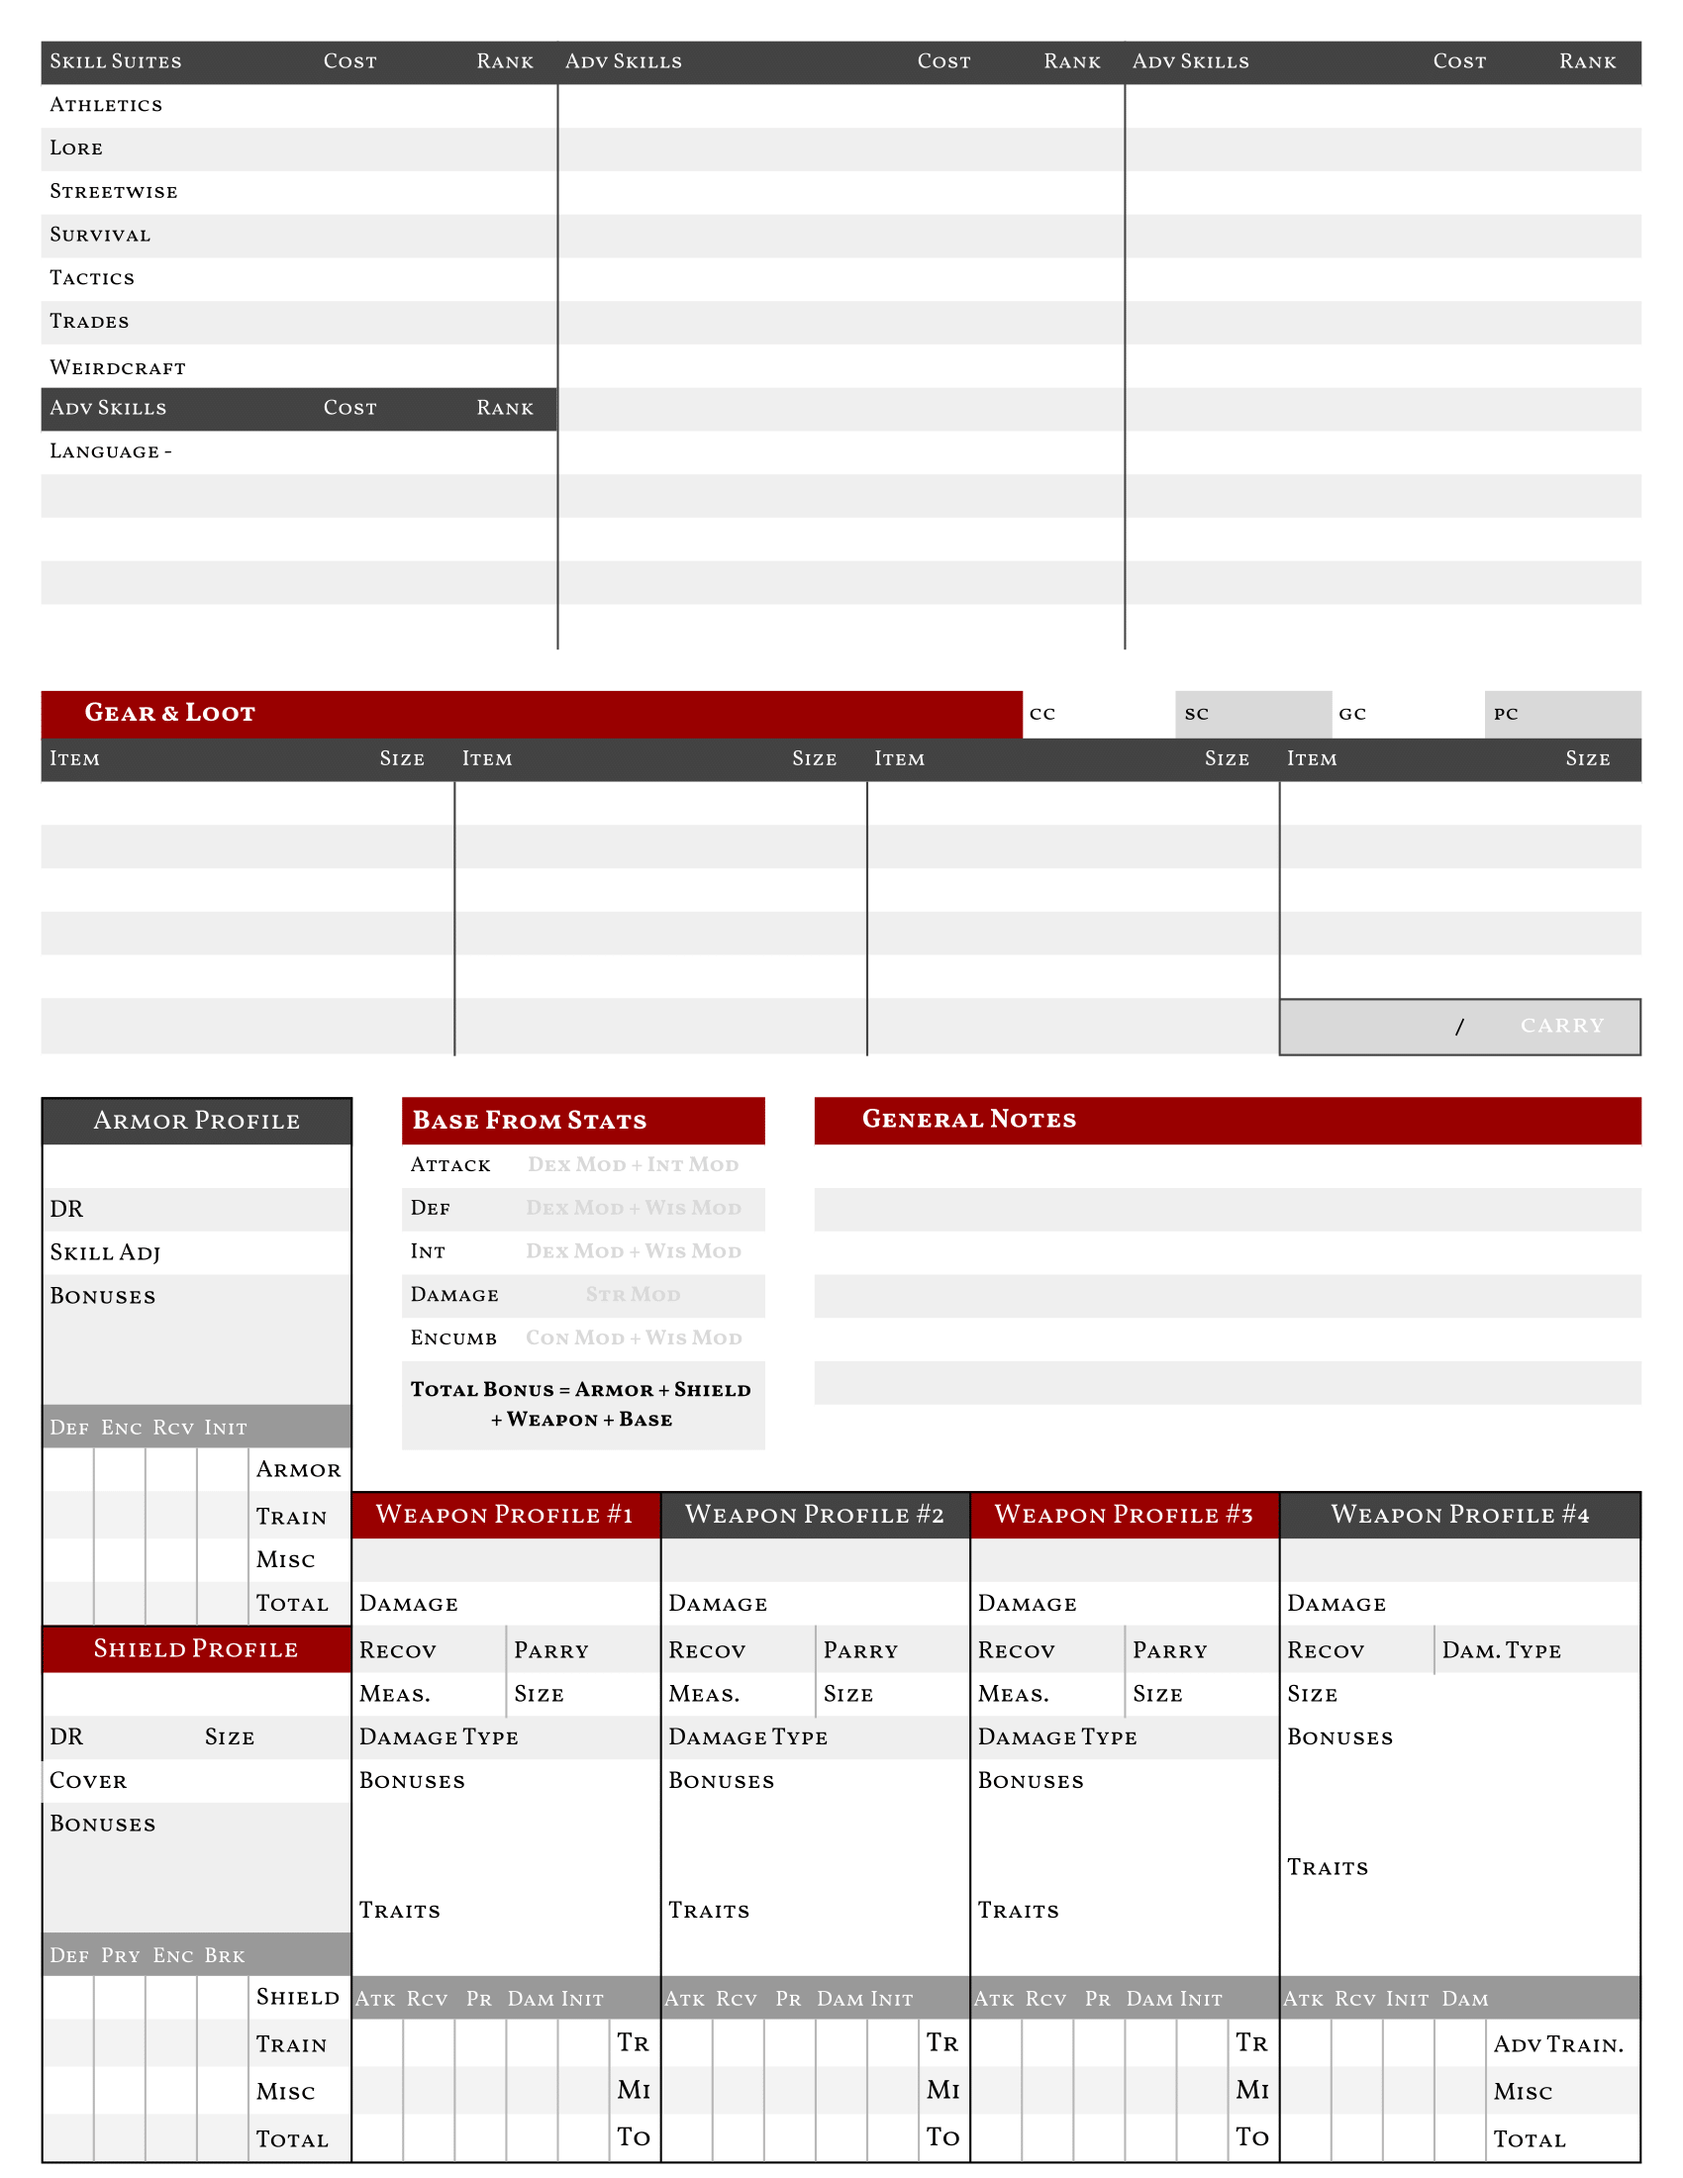
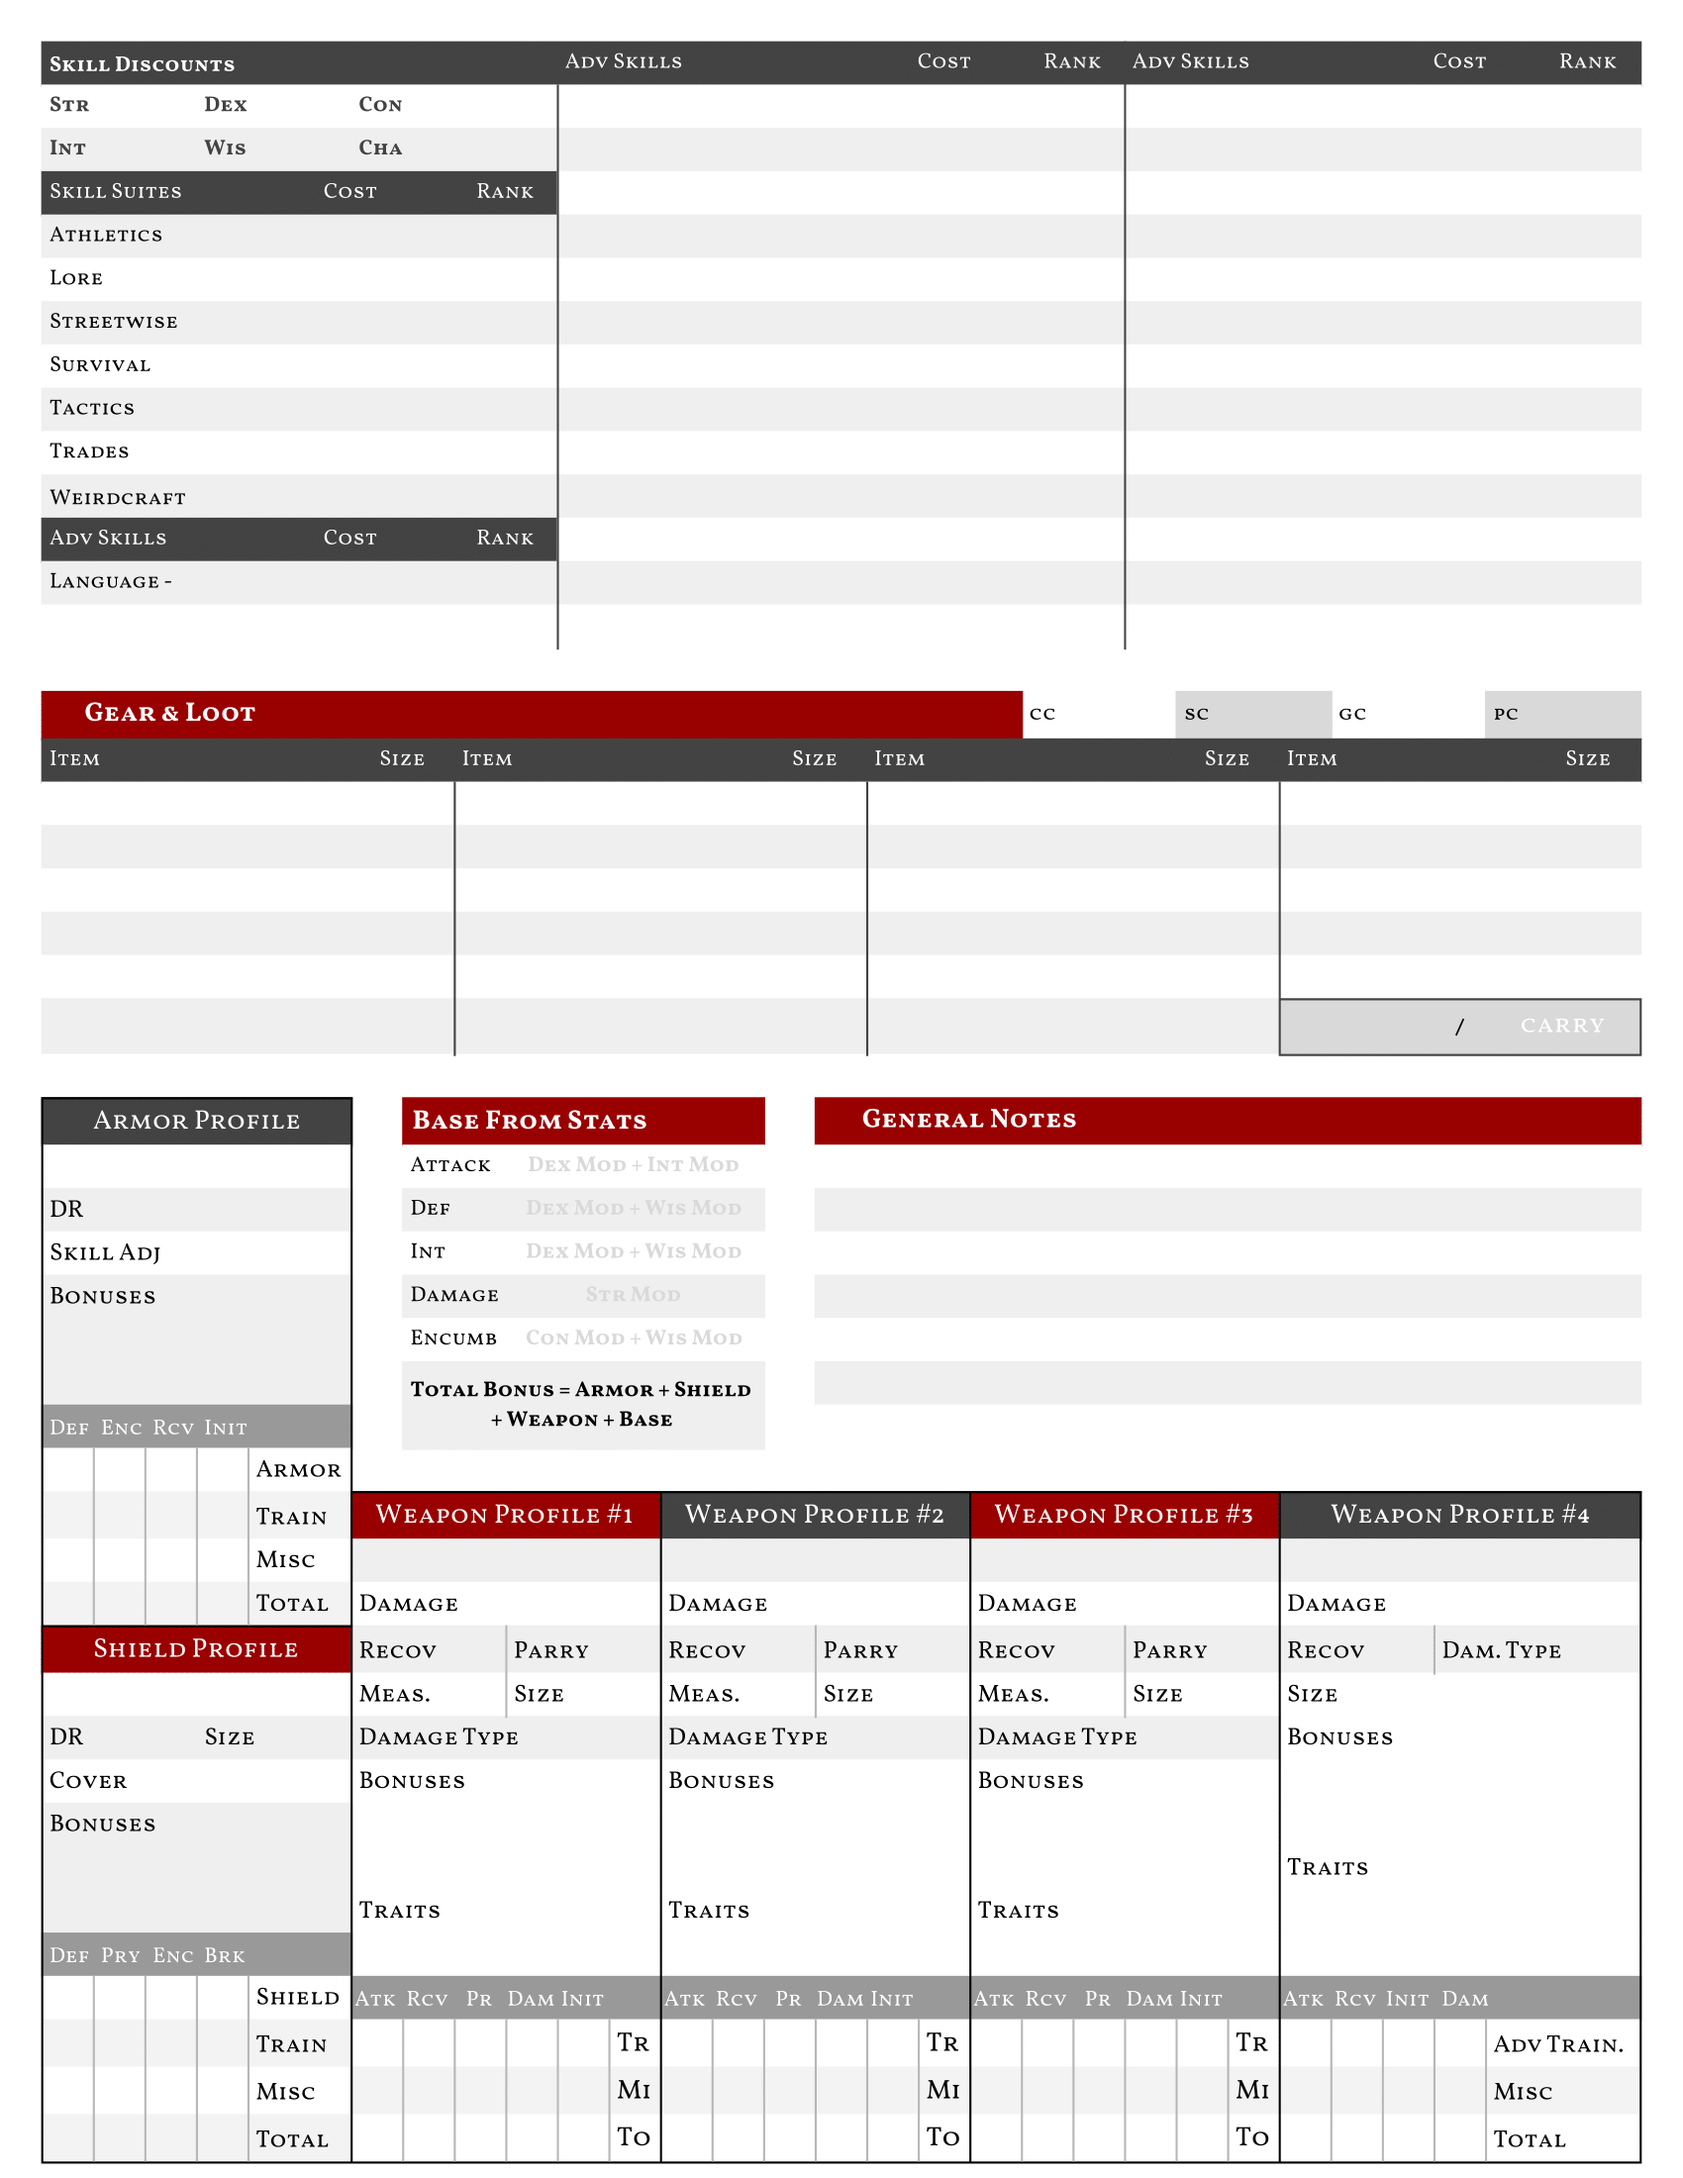
updating character sheet

Changed region(s): [[0.0, 0.0309, 0.3429, 0.2782]]

diff --git a/src/components/character/views/editor.js b/src/components/character/views/editor.js
@@ -139,7 +139,7 @@ render() {
                             <input id="nativerank" type="number" placeholder={Math.ceil(int / 2)} defaultValue={nativelanguage.rank} onChange={event => this.updateNativeLanguage(event.target.value, 'rank')} />
                         </div>
                     </div>
-                    <EditSkillList stylings={{ top: '230px', left: '20px', width: '251px' }} listArray={skillone} limit={4} updateFunction={this.updateAttribute} type={"skillone"} />
+                    <EditSkillList stylings={{ top: '294px', left: '20px', width: '251px' }} listArray={skillone} limit={1} updateFunction={this.updateAttribute} type={"skillone"} />
                     <EditSkillList stylings={{ top: '42px', left: '272px', width: '273px' }} listArray={skilltwo} limit={13} updateFunction={this.updateAttribute} type={"skilltwo"} />
                     <EditSkillList stylings={{ top: '42px', left: '547px', width: '250px' }} listArray={skillthree} limit={13} updateFunction={this.updateAttribute} type={"skillthree"} />
 

diff --git a/src/components/character/views/viewer.js b/src/components/character/views/viewer.js
@@ -311,7 +311,7 @@ export default class CharacterViewer extends Component {
                                 <p id="nativerank">{nativelanguage.rank ? nativelanguage.rank : Math.ceil(int / 2)}</p>
                             </div>
                         </div>
-                        <ViewSkillList stylings={{ top: '230px', left: '20px', width: '251px' }} listArray={skillone} />
+                        <ViewSkillList stylings={{ top: '294px', left: '20px', width: '251px' }} listArray={skillone} />
                         <ViewSkillList stylings={{ top: '42px', left: '272px', width: '273px' }} listArray={skilltwo} />
                         <ViewSkillList stylings={{ top: '42px', left: '547px', width: '250px' }} listArray={skillthree} />
 

diff --git a/server/vault.js b/server/vault.js
@@ -25,7 +25,7 @@ app.post('/api/AddCharacter', editCtrl.addCharacter)
 //   res.sendFile(path.join(__dirname, './index.html'));
 // });
 
-massive(config.connection).then(dbI => {
+massive(config.databaseCredentials).then(dbI => {
   app.set('db', dbI)
   app.listen(config.port, async () => {
     console.log(`Weep a thousand tears and you won't drown the desert ${config.port}`);

diff --git a/src/components/character/character.css b/src/components/character/character.css
@@ -1331,7 +1331,7 @@ textarea.traitsfour {
 .skillsuiteShell {
     height: 147px;
     width: 135px;
-    top: 41px;
+    top: 103px;
     position: absolute;
     left: 135px;
 }
